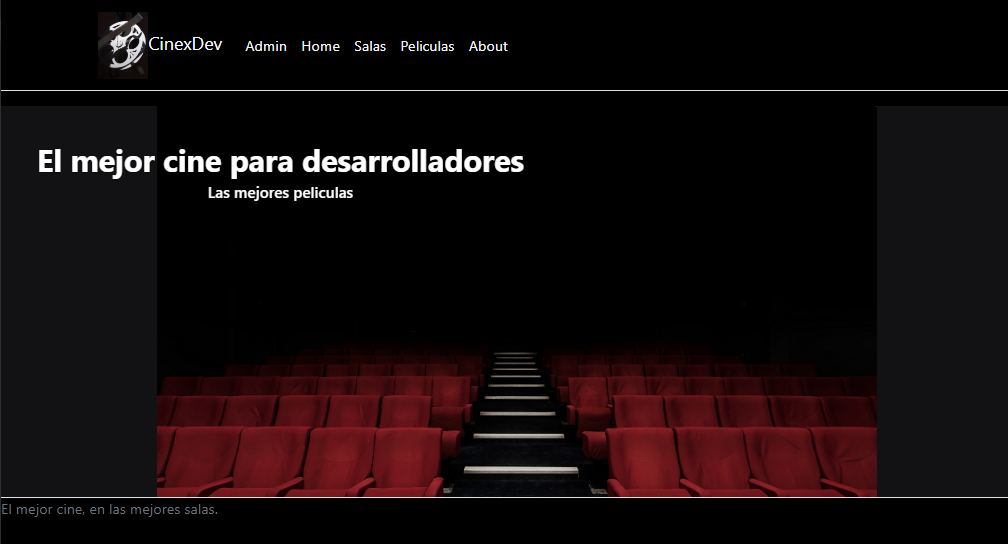
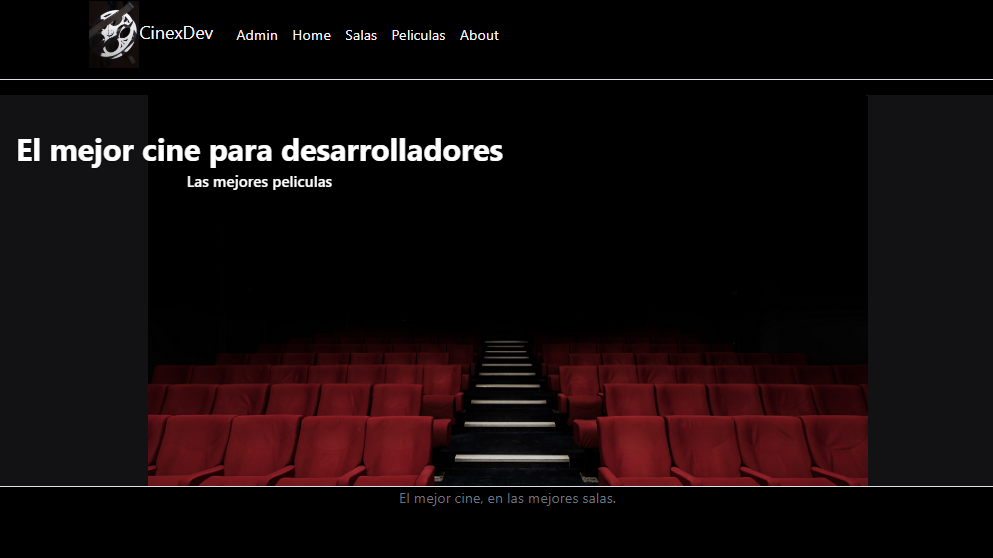
Agrego posters de películas. Cambio color de fondo y fuente de tarjetas. Centro pie de página. Soluciono error al hacer login.

Changed region(s): [[0.0, 0.5938, 1.0, 0.9688], [0.0, 0.25, 0.5307, 0.375], [0.0937, 0.0, 0.4995, 0.1562]]

diff --git a/cine/templates/admin/base.html b/cine/templates/admin/base.html
@@ -36,23 +36,23 @@
         {% if has_permission %}
         <div id="user-tools">
             {% block welcome-msg %}
-                {% translate 'Welcome,' %}
+                {% trans 'Welcome,' %}
                 <strong>{% firstof user.get_short_name user.get_username %}</strong>.
             {% endblock %}
             {% block userlinks %}
                 {% if site_url %}
-                    <a href="{{ site_url }}">{% translate 'View site' %}</a> /
+                    <a href="{{ site_url }}">{% trans 'View site' %}</a> /
                 {% endif %}
                 {% if user.is_active and user.is_staff %}
                     {% url 'django-admindocs-docroot' as docsroot %}
                     {% if docsroot %}
-                        <a href="{{ docsroot }}">{% translate 'Documentation' %}</a> /
+                        <a href="{{ docsroot }}">{% trans 'Documentation' %}</a> /
                     {% endif %}
                 {% endif %}
                 {% if user.has_usable_password %}
-                <a href="{% url 'admin:password_change' %}">{% translate 'Change password' %}</a> /
+                <a href="{% url 'admin:password_change' %}">{% trans 'Change password' %}</a> /
                 {% endif %}
-                <a href="{% url 'admin:logout' %}">{% translate 'Log out' %}</a>
+                <a href="{% url 'admin:logout' %}">{% trans 'Log out' %}</a>
             {% endblock %}
         </div>
         {% endif %}
@@ -62,7 +62,7 @@
     <!-- END Header -->
     {% block breadcrumbs %}
     <div class="breadcrumbs">
-    <a href="{% url 'admin:index' %}">{% translate 'Home' %}</a>
+    <a href="{% url 'admin:index' %}">{% trans 'Home' %}</a>
     {% if title %} &rsaquo; {{ title }}{% endif %}
     </div>
     {% endblock %}

diff --git a/cine/templates/admin/login.html b/cine/templates/admin/login.html
@@ -11,8 +11,6 @@
 
 {% block nav-global %}{% endblock %}
 
-{% block nav-sidebar %}{% endblock %}
-
 {% block content_title %}{% endblock %}
 
 {% block breadcrumbs %}{% endblock %}
@@ -20,7 +18,7 @@
 {% block content %}
 {% if form.errors and not form.non_field_errors %}
 <p class="errornote">
-{% if form.errors.items|length == 1 %}{% translate "Please correct the error below." %}{% else %}{% translate "Please correct the errors below." %}{% endif %}
+{% if form.errors.items|length == 1 %}{% trans "Please correct the error below." %}{% else %}{% trans "Please correct the errors below." %}{% endif %}
 </p>
 {% endif %}
 
@@ -36,10 +34,10 @@
 
 {% if user.is_authenticated %}
 <p class="errornote">
-{% blocktranslate trimmed %}
+{% blocktrans trimmed %}
     You are authenticated as {{ username }}, but are not authorized to
     access this page. Would you like to login to a different account?
-{% endblocktranslate %}
+{% endblocktrans %}
 </p>
 {% endif %}
 
@@ -56,11 +54,11 @@
   {% url 'admin_password_reset' as password_reset_url %}
   {% if password_reset_url %}
   <div class="password-reset-link">
-    <a href="{{ password_reset_url }}">{% translate 'Forgotten your password or username?' %}</a>
+    <a href="{{ password_reset_url }}">{% trans 'Forgotten your password or username?' %}</a>
   </div>
   {% endif %}
   <div class="submit-row">
-    <input type="submit" value="{% translate 'Log in' %}">
+    <label>&nbsp;</label><input type="submit" value="{% trans 'Log in' %}">
   </div>
 </form>
 

diff --git a/cine/templates/views/salas/detalleSala.html b/cine/templates/views/salas/detalleSala.html
@@ -4,7 +4,7 @@
     <div class="row">
         <div class="col-xs-1 col-md-6">
             <div class="card">
-                <div class="card-body">
+                <div class="card-body" style="background-color:darkgray; color:black">
                     <table>
                         <tbody>
                             <tr>
@@ -23,13 +23,13 @@
                             </tr>
                             <tr>
                                 <td>
-                                    <h5>Pelicula</h5>
+                                    <h5>Pelicula:</h5>
                                     <h5>{{ sala.PeliculaId }}</h5>
                                 </td>
                             </tr>
                             <tr>
                                 <td>
-                                    <h5>Horario</h5>
+                                    <h5>Horario:</h5>
                                     <h5>{{ sala.Horario }}</h5>
                                 </td>
                             </tr>
@@ -42,7 +42,7 @@
     </div>
     <div class="col-sm">
 
-        <table>
+        <table style="color: whitesmoke;">
             <tbody>
                 <tr>
                     <th>

diff --git a/cine/templates/views/salas/listado.html b/cine/templates/views/salas/listado.html
@@ -5,9 +5,13 @@
         {% for sala in salas_list %}
         <div class="col-xs-4 col-md-3">
             <div class="card">
-                <div class="card-body">
+                <div class="card-header" style="background-color: darkgray; text-align: center; color: black;">
                     <h5>Sala {{sala.Numero}}</h5>
-                    <p class="card-text">{{ sala.PeliculaId}}</p>
+                </div>
+                <div class="card-body" style="background-color: black;">
+                    <img src="/media/{{ sala.PeliculaId.Imagen }}" class="thumbnails"/>
+                </div>
+                <div class="card-footer" style="background-color:darkgray; text-align: center; color: black;">
                     <p class="card-text">{{ sala.Horario }}</p>
                     <p><a href="detalleSala/{{ sala.SalaId }}">Información</a></p>
                 </div>

diff --git a/cine/templates/views/default/header.html b/cine/templates/views/default/header.html
@@ -22,7 +22,7 @@
                 <a class="navbar-brand text-light">
                     <img src="{% static 'images/rollo_cine.png' %}" class="imglogo" />CinexDev
                 </a>
-                <button class="navbar-toggler" type="button" data-toggle="collapse" data-target=".navbar-collapse"
+                <button class="navbar-toggler" type="button" style="color: blue;" data-toggle="collapse" data-target=".navbar-collapse"
                     aria-controls="navbarSupportedContent" aria-expanded="false" aria-label="Toggle navigation">
                     <span class="navbar-toggler-icon"></span>
                 </button>

diff --git a/cine/templates/views/salas/cartelera.html b/cine/templates/views/salas/cartelera.html
@@ -5,8 +5,9 @@
         {% for pelicula in peliculas_list %}
         <div class="col-xs-4 col-md-3">
             <div class="card">
-                <div class="card-body">
+                <div class="card-body" style="background-color: darkgray; text-align: center; color: black;">
                     <h5>{{pelicula.Titulo}}</h5>
+                    <img src="/media/{{ pelicula.Imagen }}" class="thumbnails"/>
                     <p class="card-text">{{ pelicula.Director}} </p>
                     <p class="card-text">{{ pelicula.Duracion}} minutos</p>
                     <p class="card-text">Estreno {{ pelicula.Anio }}</p>

diff --git a/cine/templates/views/default/footer.html b/cine/templates/views/default/footer.html
@@ -1,6 +1,6 @@
 
 
-<footer class="border-top footer text-muted">
+<footer class="border-top footer text-muted" style="text-align: center;">
     El mejor cine, en las mejores salas.
 </footer>
 </body>

diff --git a/cine/static/css/bootstrap.css b/cine/static/css/bootstrap.css
@@ -481,8 +481,8 @@ mark,
   background-color: #fff;
   border: 1px solid #dee2e6;
   border-radius: 0.25rem;
-  max-width: 100%;
-  height: auto;
+  max-width: 25%;
+  max-height: 25%;
 }
 
 .figure {

diff --git a/cine/static/css/style.css b/cine/static/css/style.css
@@ -20,3 +20,4 @@ body {
 }
 
 
+

diff --git a/cine/cine/urls.py b/cine/cine/urls.py
@@ -15,6 +15,8 @@ Including another URLconf
 """
 from django.contrib import admin
 from django.urls import path
+from django.conf import settings
+from django.conf.urls.static import static
 from sala.Controllers.IndexController import IndexController
 from sala.Controllers.Salas_Controller import Salas_Controller
 
@@ -25,5 +27,4 @@ urlpatterns = [
     path('salas/', Salas_Controller.index, name='salas'),
     path('salas/detalleSala/<int:numero>/', Salas_Controller.detalleSala, name='detalleSala'),
     path('salas/cartelera/', Salas_Controller.cartelera, name='cartelera'),
-
-]
+]  + static(settings.MEDIA_URL, document_root=settings.MEDIA_ROOT)

diff --git a/cine/sala/migrations/0007_auto_20210124_1153.py b/cine/sala/migrations/0007_auto_20210124_1153.py
@@ -1,0 +1,18 @@
+# Generated by Django 2.1.2 on 2021-01-24 10:53
+
+from django.db import migrations, models
+
+
+class Migration(migrations.Migration):
+
+    dependencies = [
+        ('sala', '0006_peliculas_imagen'),
+    ]
+
+    operations = [
+        migrations.AlterField(
+            model_name='peliculas',
+            name='Imagen',
+            field=models.ImageField(default=0, null=True, upload_to='images/pelis'),
+        ),
+    ]

diff --git a/cine/sala/migrations/0006_peliculas_imagen.py b/cine/sala/migrations/0006_peliculas_imagen.py
@@ -1,0 +1,18 @@
+# Generated by Django 2.1.2 on 2021-01-24 08:20
+
+from django.db import migrations, models
+
+
+class Migration(migrations.Migration):
+
+    dependencies = [
+        ('sala', '0005_auto_20201210_2143'),
+    ]
+
+    operations = [
+        migrations.AddField(
+            model_name='peliculas',
+            name='Imagen',
+            field=models.URLField(default=0, help_text='De imdb mismo'),
+        ),
+    ]
